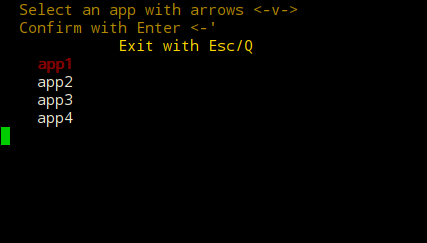
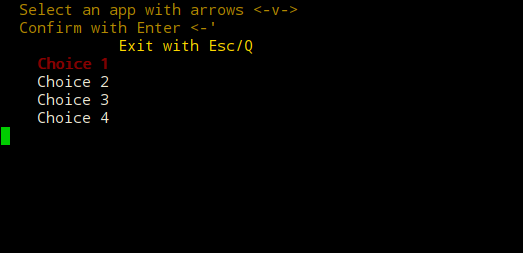
Get selected text

Changed region(s): [[0.0304, 0.0, 0.7002, 0.2305], [0.0609, 0.2305, 0.2131, 0.5185], [0.0, 0.4897, 0.0304, 0.6049]]

diff --git a/README.md b/README.md
@@ -2,21 +2,27 @@
 
 ![screenshot](https://raw.githubusercontent.com/j8r/SimpleShellMenu/master/screenshot.png)
 
-
-### use
+### Use
 
 ```sh
 ssm "Title
-Description" "etc(can be empty)
-choice1
-choice2
-choice3" "tab/space for choices"
+Description" "antoher descriptions(can be empty)
+Choice 1
+Choice 2
+Choice 3" "tab/space for choices"
+
+case "$lchoice" in
+  "Choice 1") printf "First choice selected\n";;
+  "Choice 2") printf "Second choice selected\n";;
+  "Choice 3") printf "Third choice selected\n";;
+  "Choice 4") printf "Fourth choice selected\n";;
+esac
 
 case $linenb in
-  1) printf "You select choice1\n";;
-  2) printf "You select choice2\n";;
-  3) printf "You select choice3\n";;
-  4) printf "You select choice4\n";;
+  1) printf "First choice chosen\n";;
+  2) printf "Second choice chosen\n";;
+  3) printf "Third choice chosen\n";;
+  4) printf "Fourth choice chosen\n";;
 esac
 ```
 
@@ -27,18 +33,27 @@ esac
 
 ssm "\33[0;33m  Select an app with arrows <-v->\33[0m
   \33[0;33mConfirm with Enter <-'\33[0m" "\33[0;34m         Exit with Esc/Q\33[0m
-app1
-app2
-app3
-app4" "    "
+Choice 1
+Choice 2
+Choice 3
+Choice 4" "    "
+
+case "$lchoice" in
+  "Choice 1") printf "First choice selected\n";;
+  "Choice 2") printf "Second choice selected\n";;
+  "Choice 3") printf "Third choice selected\n";;
+  "Choice 4") printf "Fourth choice selected\n";;
+esac
 
 case $linenb in
-  1) printf "You choose app1\n";;
-  2) printf "You choose app2\n";;
-  3) printf "You choose app3\n";;
-  4) printf "You choose app4\n";;
+  1) printf "First choice chosen\n";;
+  2) printf "Second choice chosen\n";;
+  3) printf "Third choice chosen\n";;
+  4) printf "Fourth choice chosen\n";;
 esac
 ```
+
+## For colors code, you can refer to `shellcolors.sh`
 
 ## License
 
